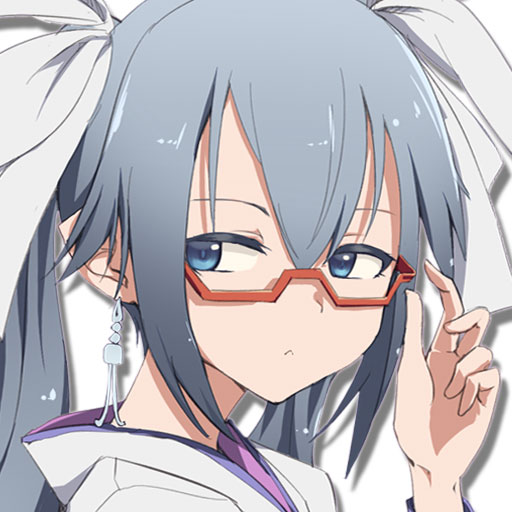
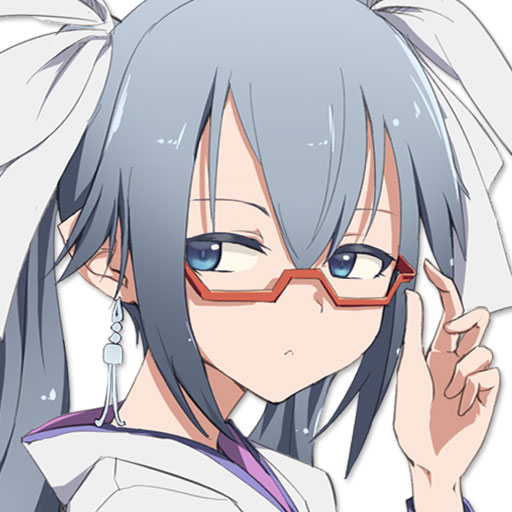
fix bio

diff --git a/src/components/bio.js b/src/components/bio.js
@@ -10,7 +10,7 @@ import { useStaticQuery, graphql } from "gatsby"
 import Image from "gatsby-image"
 import { FontAwesomeIcon } from "@fortawesome/react-fontawesome"
 import { faTwitter } from "@fortawesome/free-brands-svg-icons"
-import { faUser } from "@fortawesome/free-solid-svg-icons"
+import { faUser, faHome } from "@fortawesome/free-solid-svg-icons"
 
 import { rhythm } from "../utils/typography"
 
@@ -19,7 +19,7 @@ const Bio = () => {
     query BioQuery {
       avatar: file(absolutePath: { regex: "/naba.jpg/" }) {
         childImageSharp {
-          fixed(width: 80, height: 80) {
+          fixed(width: 100, height: 100, quality: 100) {
             ...GatsbyImageSharpFixed
           }
         }
@@ -52,12 +52,12 @@ const Bio = () => {
         alt={author.name}
         style={{
           marginRight: rhythm(1 / 2),
-          minWidth: 50,
-          borderRadius: `100%`,
         }}
         imgStyle={{
-          borderRadius: `50%`,
           marginBottom: 0,
+          width: `auto`,
+          height: `auto`,
+          borderRadius: `50%`,
         }}
       />
       <p
@@ -66,20 +66,36 @@ const Bio = () => {
         }}
       >
         <strong>
-          <FontAwesomeIcon icon={faUser} /> Author
+          <FontAwesomeIcon icon={faUser} /> Author&nbsp;&nbsp;{author.name}
         </strong>
         <br />
-        {author.name}
-        &nbsp;
+        <a
+          href={`https://naba0123.net/`}
+          style={{
+            textDecorationLine: `none`,
+            color: `white`,
+            backgroundColor: `#333`,
+            padding: `0.3em`,
+            borderRadius: `0.2em`,
+            textDecoration: `none`,
+          }}
+        >
+          <FontAwesomeIcon icon={faHome} style={{ marginRight: `0.3em` }} />
+          About me
+        </a>
         <a
           href={`https://twitter.com/${social.twitter}`}
-          target={`_blank`}
-          style={{ margin: 5, textDecorationLine: `none`, color: `white` }}
+          style={{
+            margin: `0.5em`,
+            textDecorationLine: `none`,
+            color: `white`,
+            backgroundColor: `#1DA1F2`,
+            padding: `0.3em`,
+            borderRadius: `0.2em`,
+            textDecoration: `none`,
+          }}
         >
-          <FontAwesomeIcon icon={faTwitter} /> @
-          <span style={{ textDecorationLine: `underline` }}>
-            {social.twitter}
-          </span>
+          <FontAwesomeIcon icon={faTwitter} /> @{social.twitter}
         </a>
         <br />
         <span

diff --git a/gatsby-config.js b/gatsby-config.js
@@ -4,7 +4,7 @@ module.exports = {
     author: {
       name: `ナーバ`,
       name_en: `Naba`,
-      summary: `バックエンドエンジニア。ソロピアノ曲の作曲・演奏など。 PHP(Laravel) / JavaScript(React/Gatsby) / C++(競プロ) / Piano / DTM / プロ生 / StaffPad / ドライブ / 天体観測`,
+      summary: `バックエンドエンジニア / ピアノ作曲・演奏 / StaffPad / DTM / ドライブ`,
     },
     description: `プログラミング系ネタ、作曲活動、雑記など`,
     siteUrl: `https://blog.naba0123.net/`,
